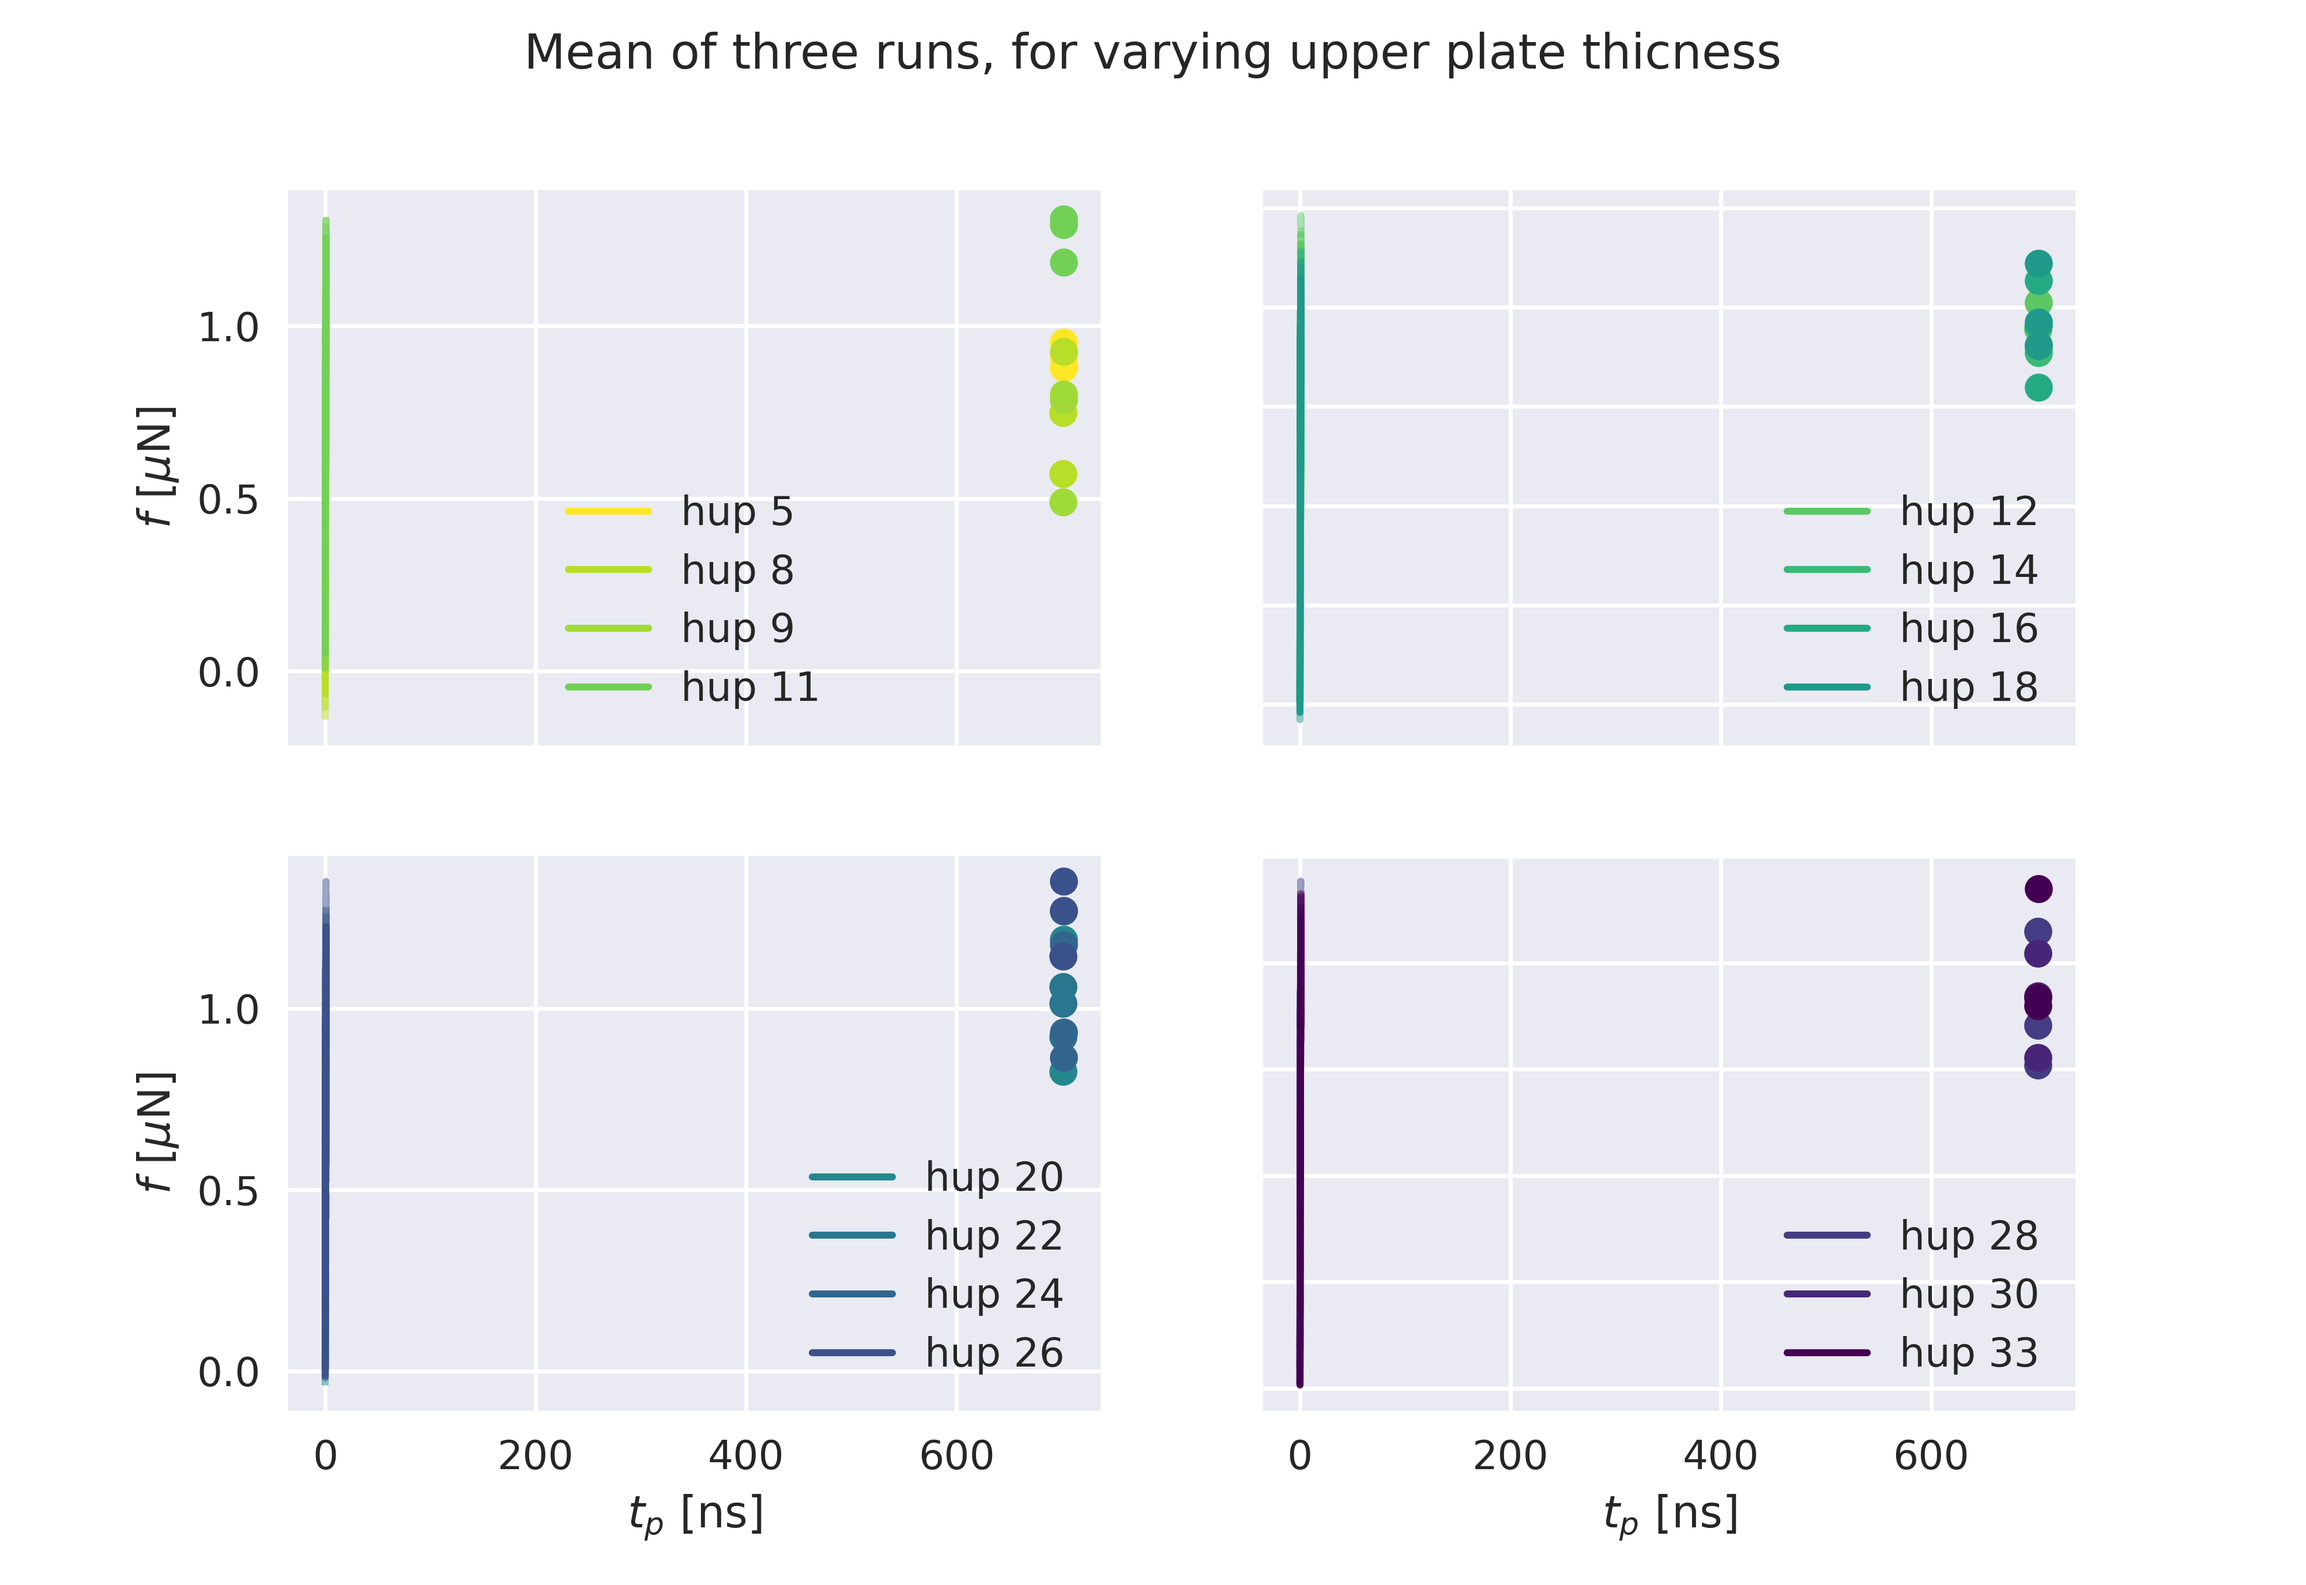
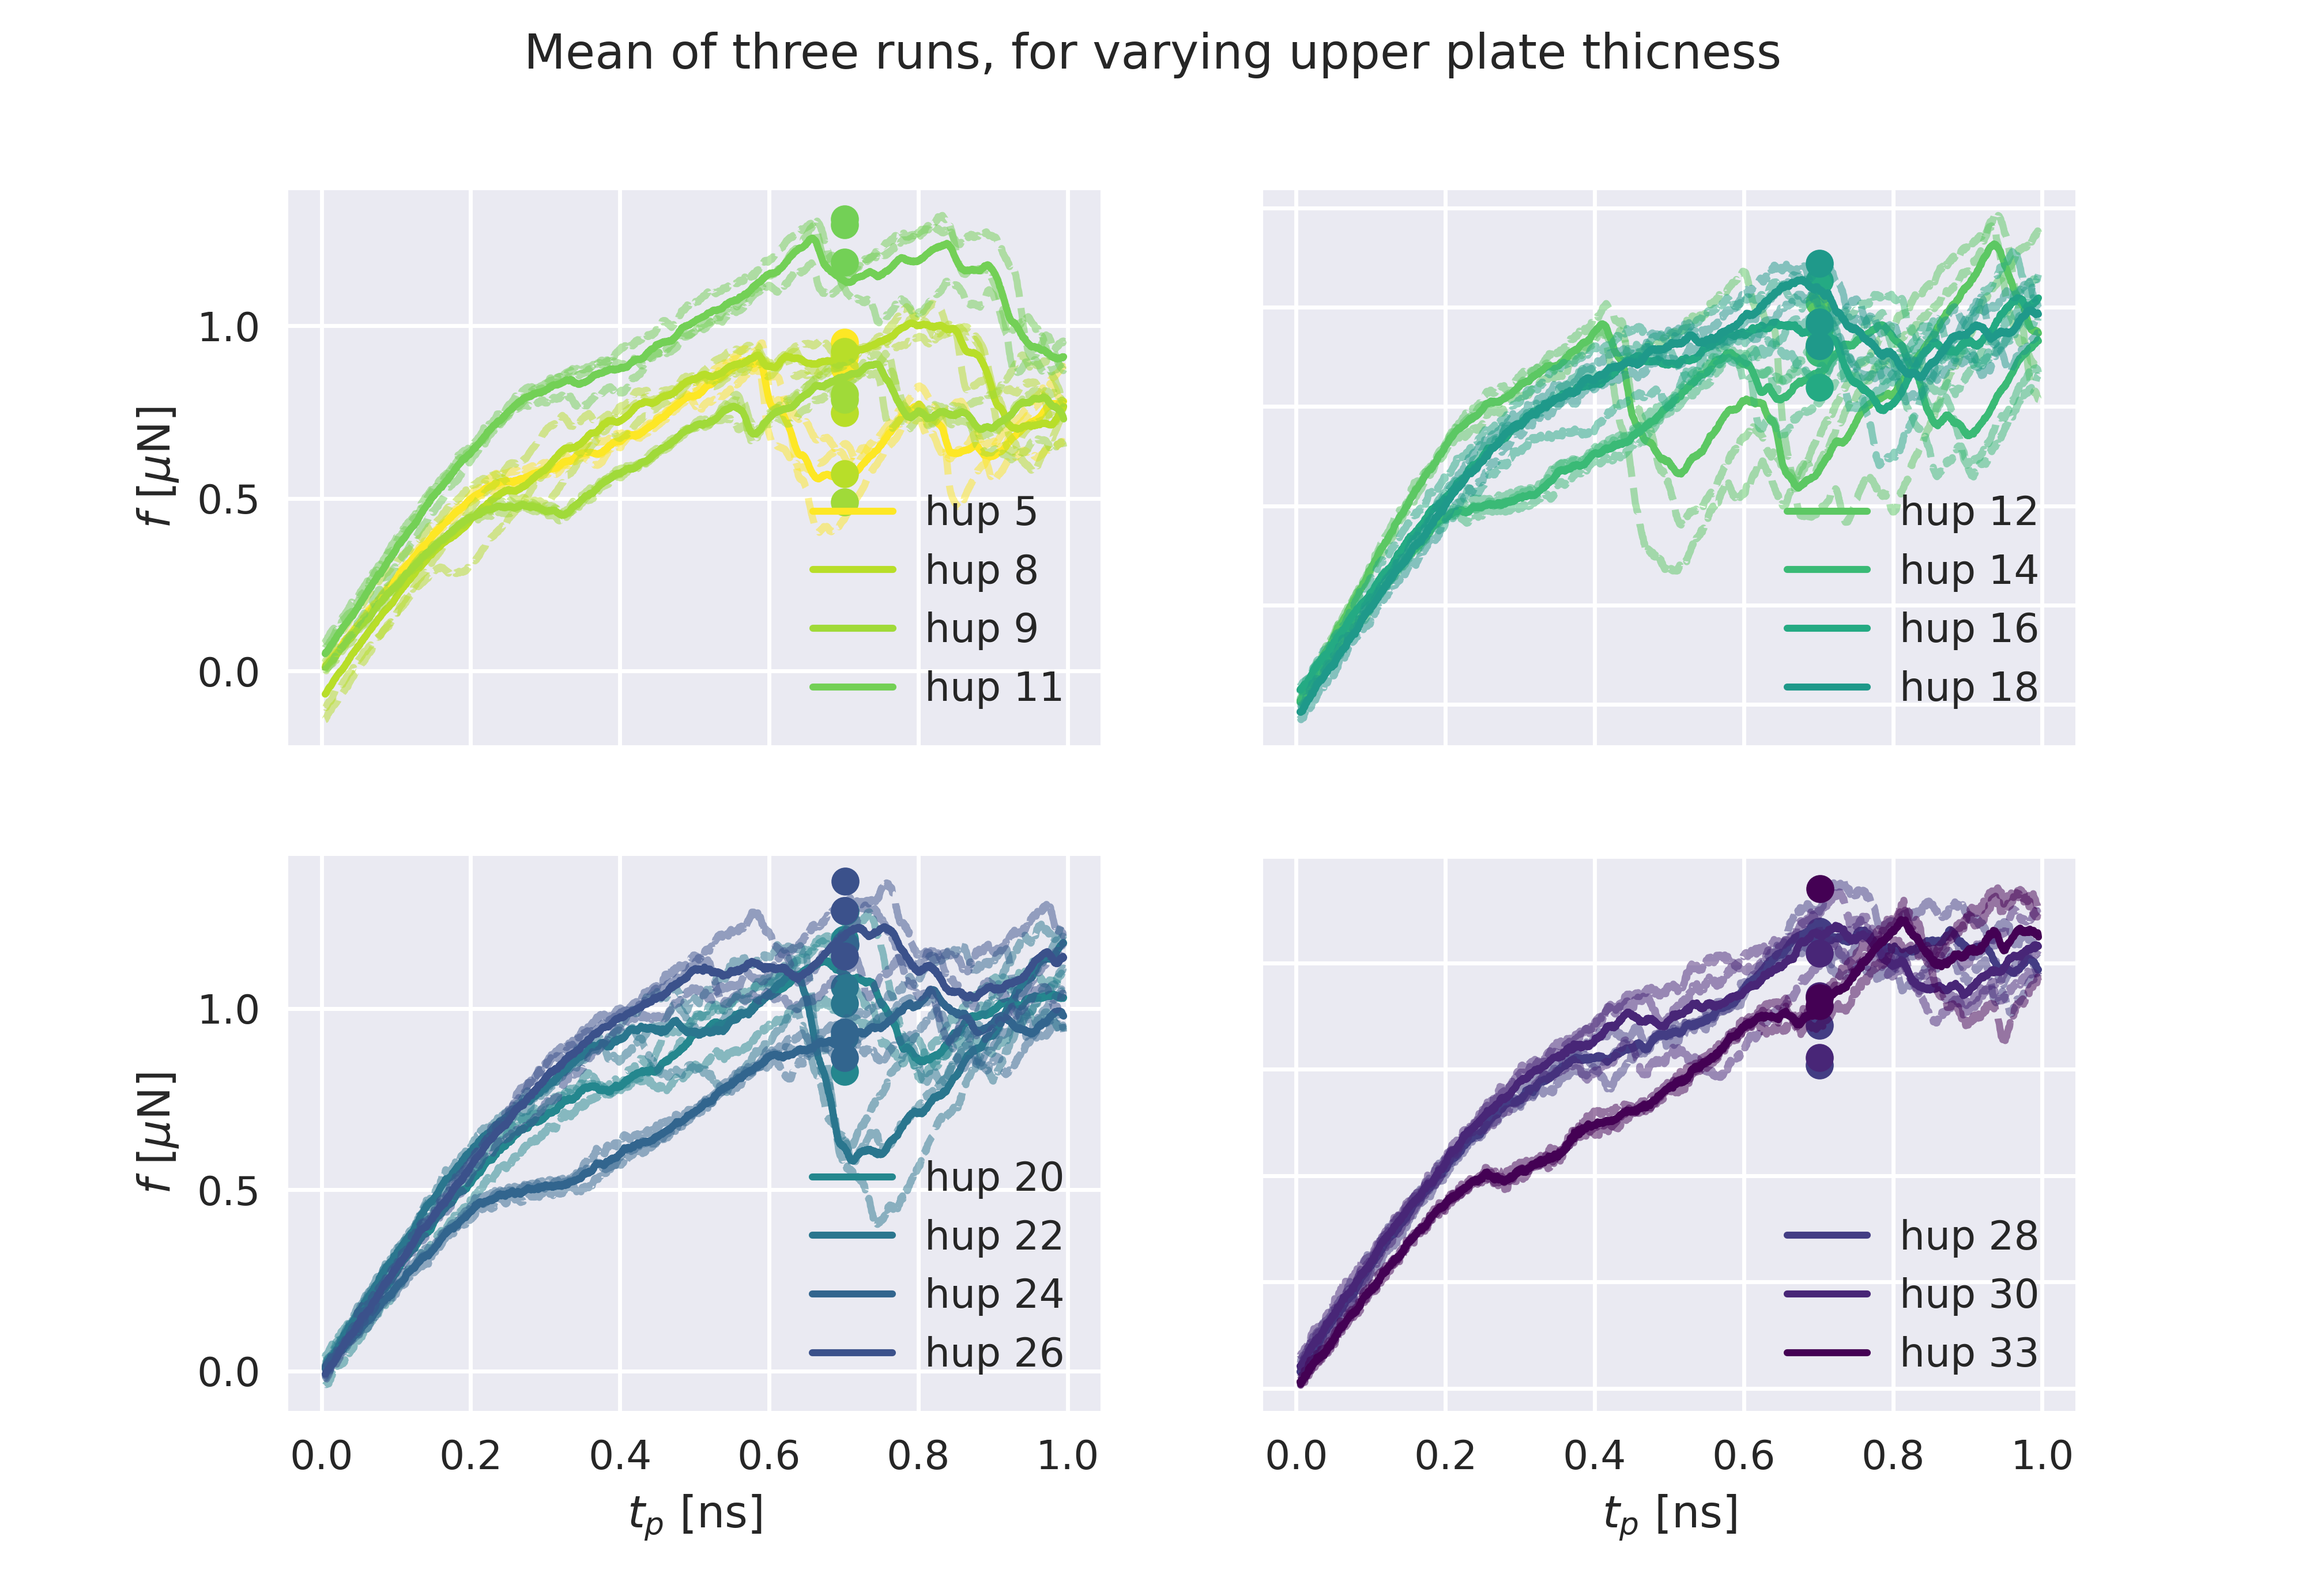
time was Ps, now it's Ns

diff --git a/python/plot/plot_load_curves.py b/python/plot/plot_load_curves.py
@@ -58,7 +58,7 @@ def load_max_static(temp, vel, force, orientation, grid, template_lc, template_m
         for seed in seeds:
             if str(seed) in str(file):
                 time, ms = loadtxt(file)
-                ms_all.append((time,ms))
+                ms_all.append((time/1000,ms))
 
     #mean_static = mean(ms_all, axis = 0)
     return ms_all#, mean_static
@@ -131,7 +131,6 @@ def plot_load_curves_as_funciton_of_top_thiccness():
     
             ms_all = load_max_static(temp, vel, force, orientation, grid,
                                      template_lc, template_ms, seed)
-            print(ms_all)
             c = plt.cm.viridis((max_hup - hup[i])/(max_hup - min_hup + 0.01))
             axs[j].plot(load_curves[0,:,0], load_curves[0,:,1], c=c, label = f'hup {hup[i]}' )
             for l in range(len(seed)):
